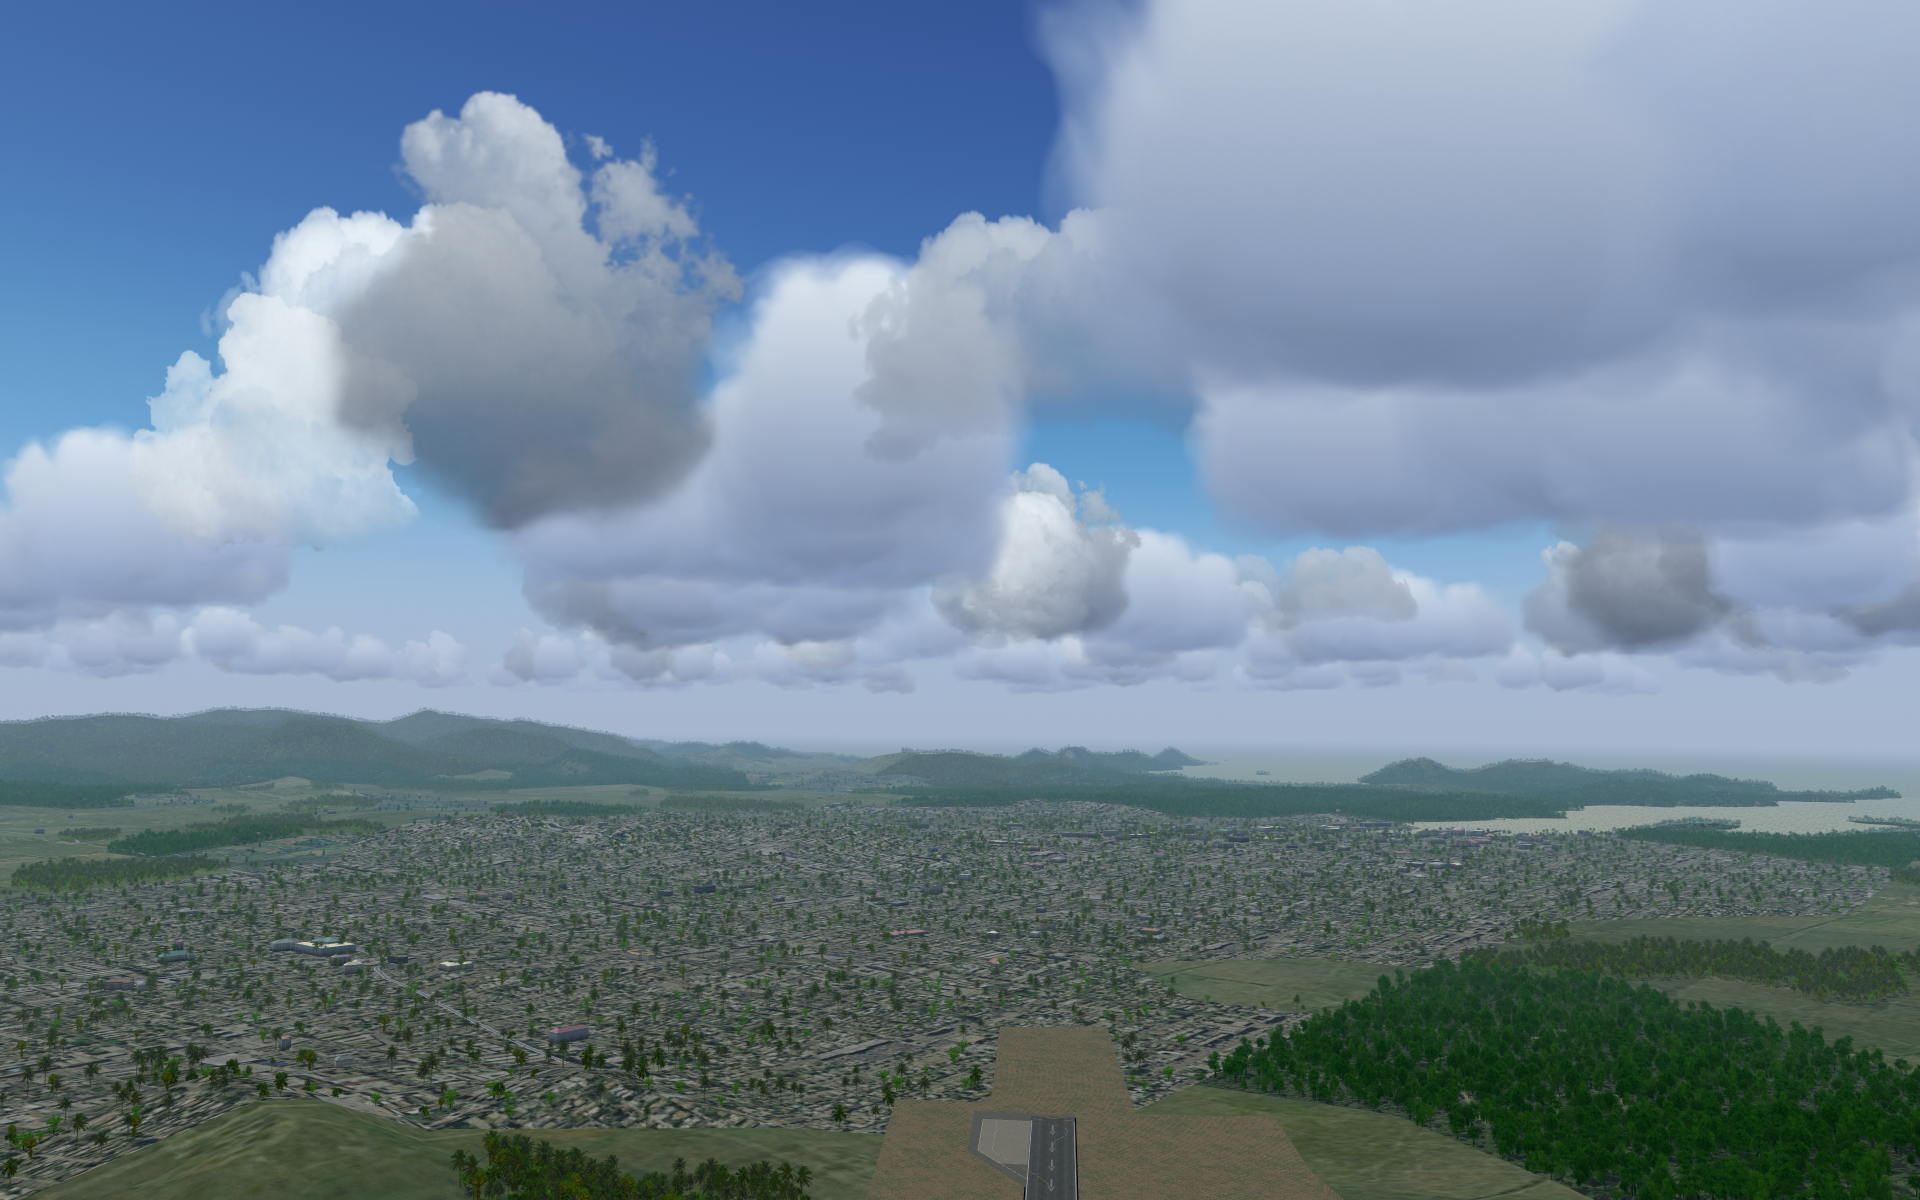
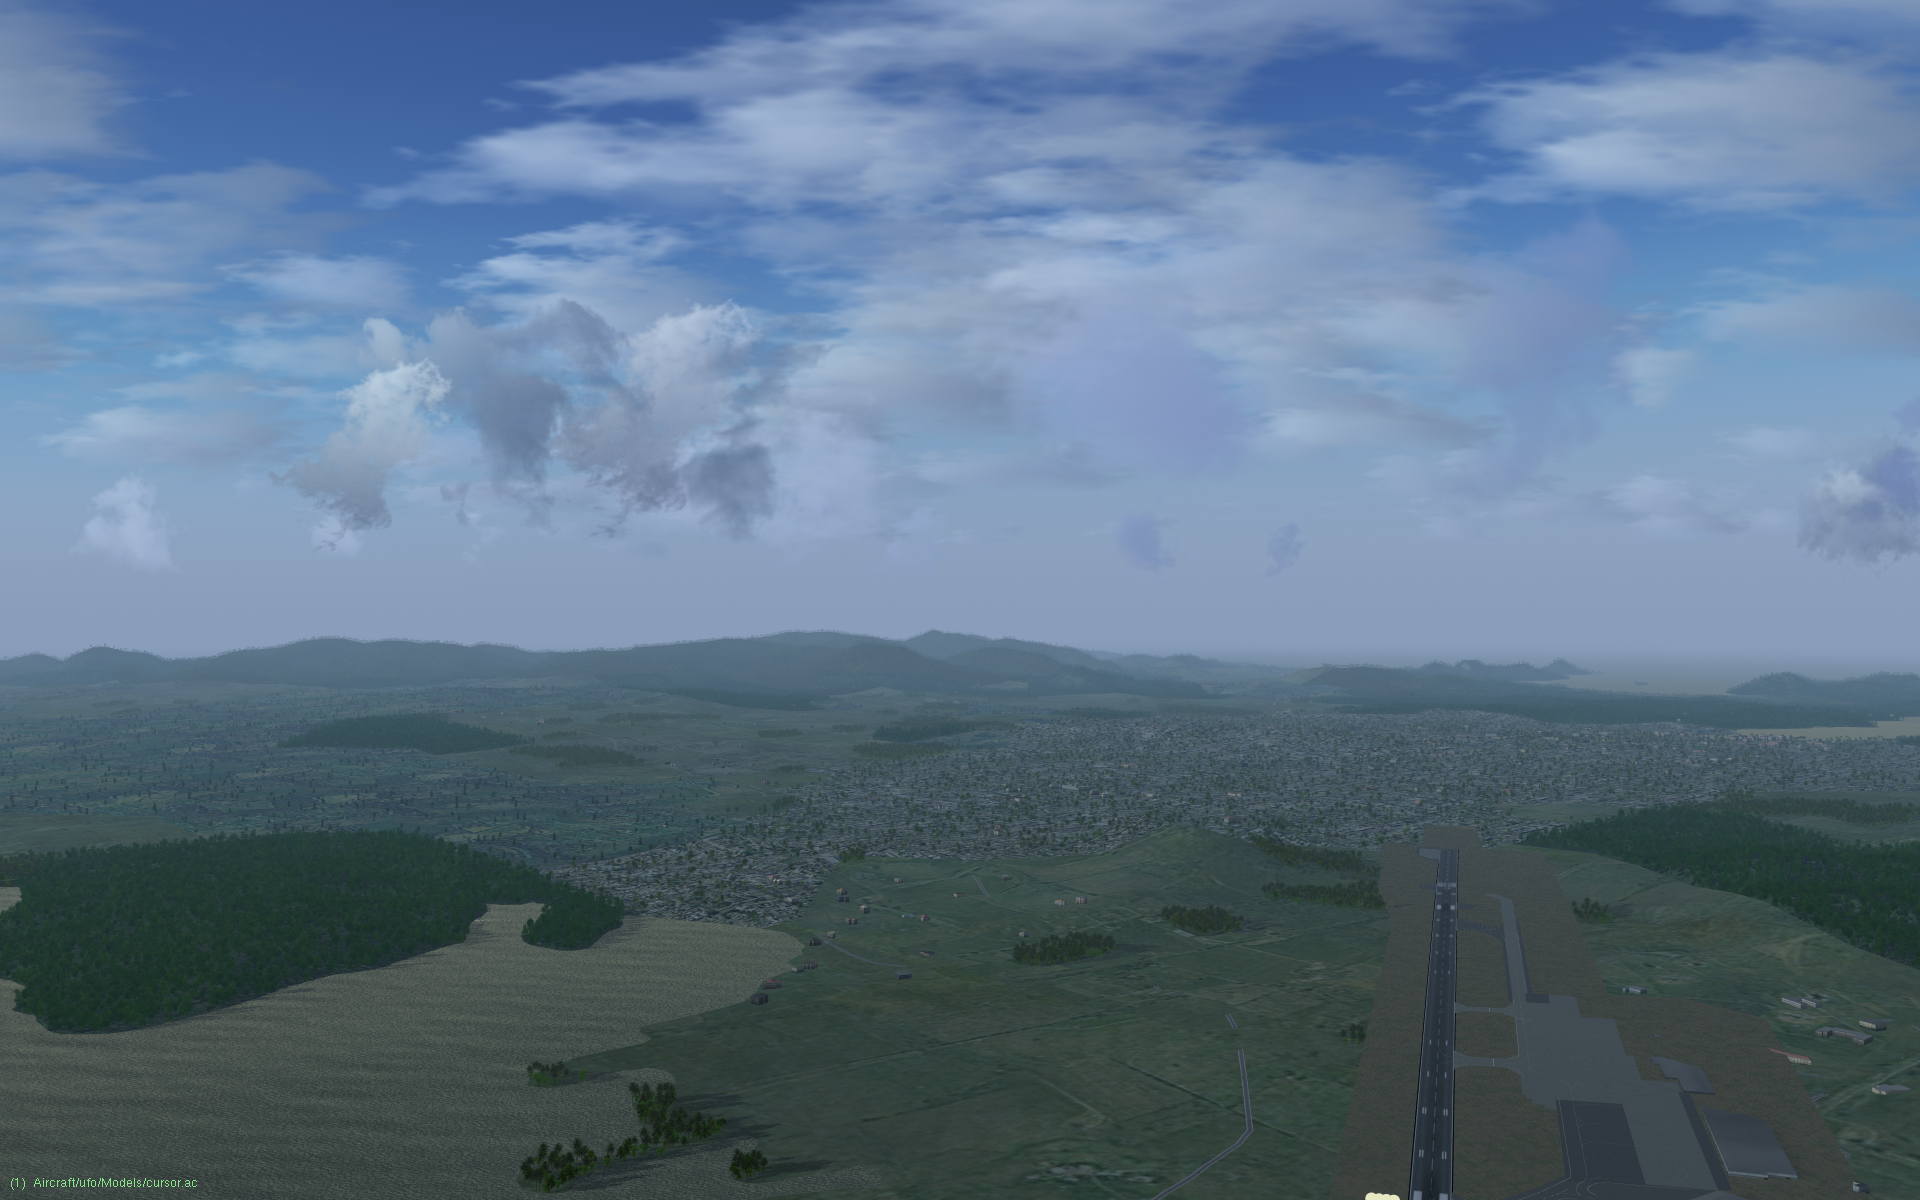
Added Katahdin to the gallery.

diff --git a/docs/gallery.html b/docs/gallery.html
@@ -95,6 +95,18 @@
         </p>
         <a href="img/st-louis-arch.png"><img src="img/st-louis-arch.png" /></a>
       </section>
+      <section class="gallery-image" id="KMLT">
+        <h2>Mount Katahdin, Maine (w070n40)</h2>
+        <p class="gallery-description">
+          Katahdin ("Great Mountain" to the indigenous Penobscot
+          people) at dawn. While technically not correct, it's common
+          folklore that the peak of Katahdin is the first bit of the
+          U.S. mainland to see the sun every morning. Take off from <a
+          href="https://ourairports.com/airports/KMLT/">Millinocket
+          Municipal Airport</a> (KMLT).
+        </p>
+        <a href="img/katahdin.png"><img src="img/katahdin.png" /></a>
+      </section>
       <section class="gallery-image" id="CYGK">
         <h2>Kingston, ON (w080n40)</h2>
         <p class="gallery-description">
